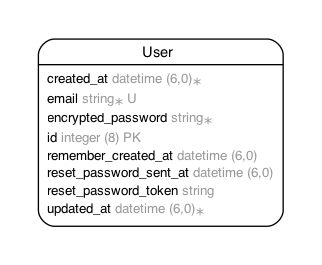
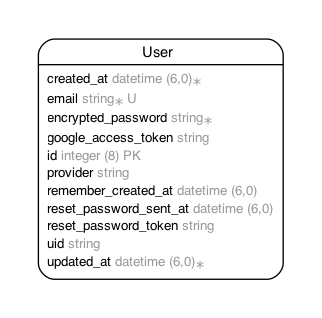
Add OAuth columns to users table
Run: bin/rails generate migration AddOmniAuthColumnsToUsers

Adds three columns to store Google OAuth data:
- provider: identifies the OAuth provider ('google_oauth2')
- uid: the user's unique ID from Google
- google_access_token: token for accessing Google Calendar API

These columns let us identify returning users and make API calls
on their behalf.

Changed region(s): [[0.0932, 0.4226, 0.9006, 0.9057], [0.0932, 0.0906, 0.9006, 0.3925]]

diff --git a/db/schema.rb b/db/schema.rb
@@ -10,7 +10,7 @@
 #
 # It's strongly recommended that you check this file into your version control system.
 
-ActiveRecord::Schema[8.0].define(version: 2025_12_09_011715) do
+ActiveRecord::Schema[8.0].define(version: 2025_12_09_013148) do
   # These are extensions that must be enabled in order to support this database
   enable_extension "pg_catalog.plpgsql"
 
@@ -164,6 +164,9 @@ ActiveRecord::Schema[8.0].define(version: 2025_12_09_011715) do
     t.datetime "remember_created_at"
     t.datetime "created_at", null: false
     t.datetime "updated_at", null: false
+    t.string "provider"
+    t.string "uid"
+    t.string "google_access_token"
     t.index ["email"], name: "index_users_on_email", unique: true
     t.index ["reset_password_token"], name: "index_users_on_reset_password_token", unique: true
   end

diff --git a/app/models/user.rb b/app/models/user.rb
@@ -5,9 +5,12 @@
 #  id                     :bigint           not null, primary key
 #  email                  :string           default(""), not null
 #  encrypted_password     :string           default(""), not null
+#  google_access_token    :string
+#  provider               :string
 #  remember_created_at    :datetime
 #  reset_password_sent_at :datetime
 #  reset_password_token   :string
+#  uid                    :string
 #  created_at             :datetime         not null
 #  updated_at             :datetime         not null
 #

diff --git a/db/migrate/20251209013148_add_omni_auth_columns_to_users.rb b/db/migrate/20251209013148_add_omni_auth_columns_to_users.rb
@@ -1,0 +1,7 @@
+class AddOmniAuthColumnsToUsers < ActiveRecord::Migration[8.0]
+  def change
+    add_column :users, :provider, :string
+    add_column :users, :uid, :string
+    add_column :users, :google_access_token, :string
+  end
+end

diff --git a/gcal_oauth_lesson.md b/gcal_oauth_lesson.md
@@ -173,3 +173,22 @@ The `scope` parameter tells Google what permissions we're requesting:
 - `email` - access to the user's email address
 - `profile` - access to basic profile info (name, profile picture)
 - `https://www.googleapis.com/auth/calendar.readonly` - read-only access to calendar events
+
+## Step 6: Add OAuth columns to the users table
+
+We need to store some additional information for users who sign in with Google:
+
+```
+bin/rails generate migration AddOmniAuthColumnsToUsers provider:string uid:string google_access_token:string
+```
+
+This creates a migration that adds three columns:
+- `provider` - stores "google_oauth2" to identify how the user signed up
+- `uid` - stores the user's unique Google ID
+- `google_access_token` - stores the token we'll use to access their calendar
+
+Run the migration:
+
+```
+bin/rails db:migrate
+```
